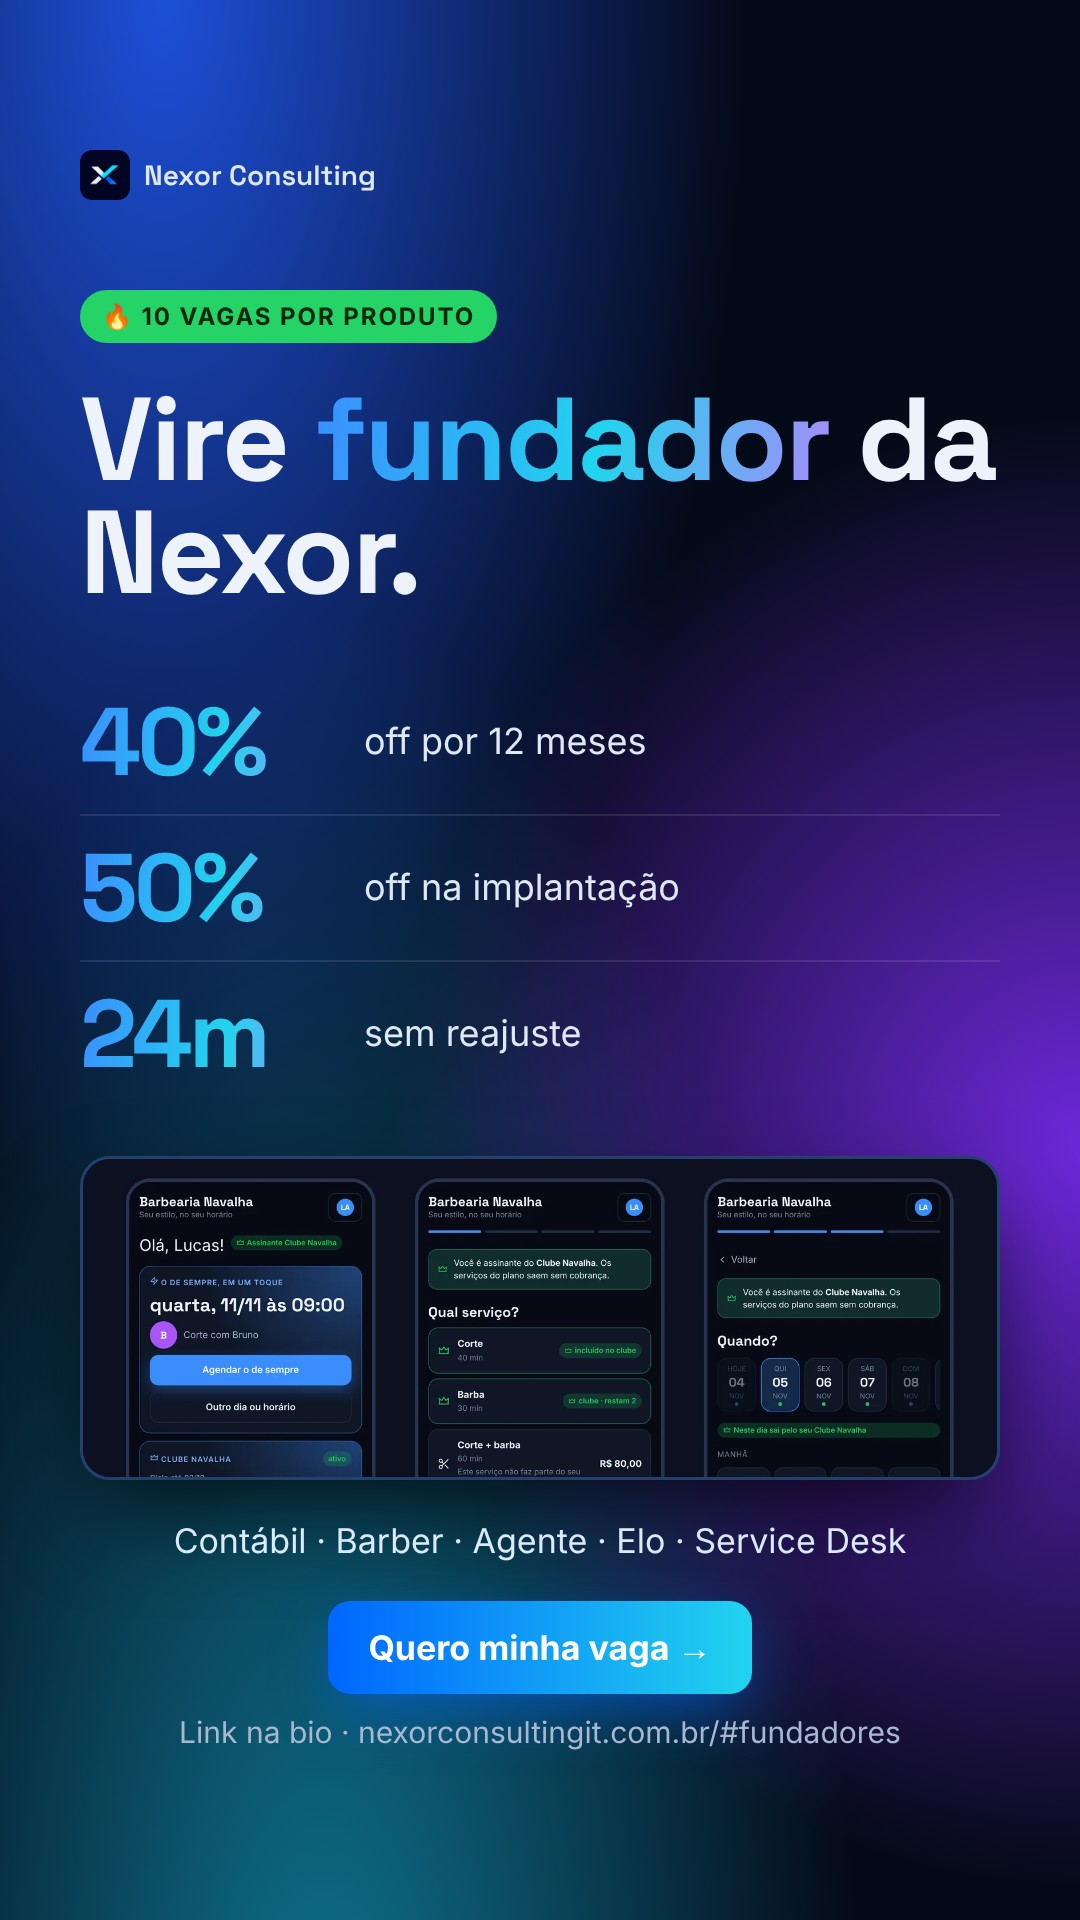
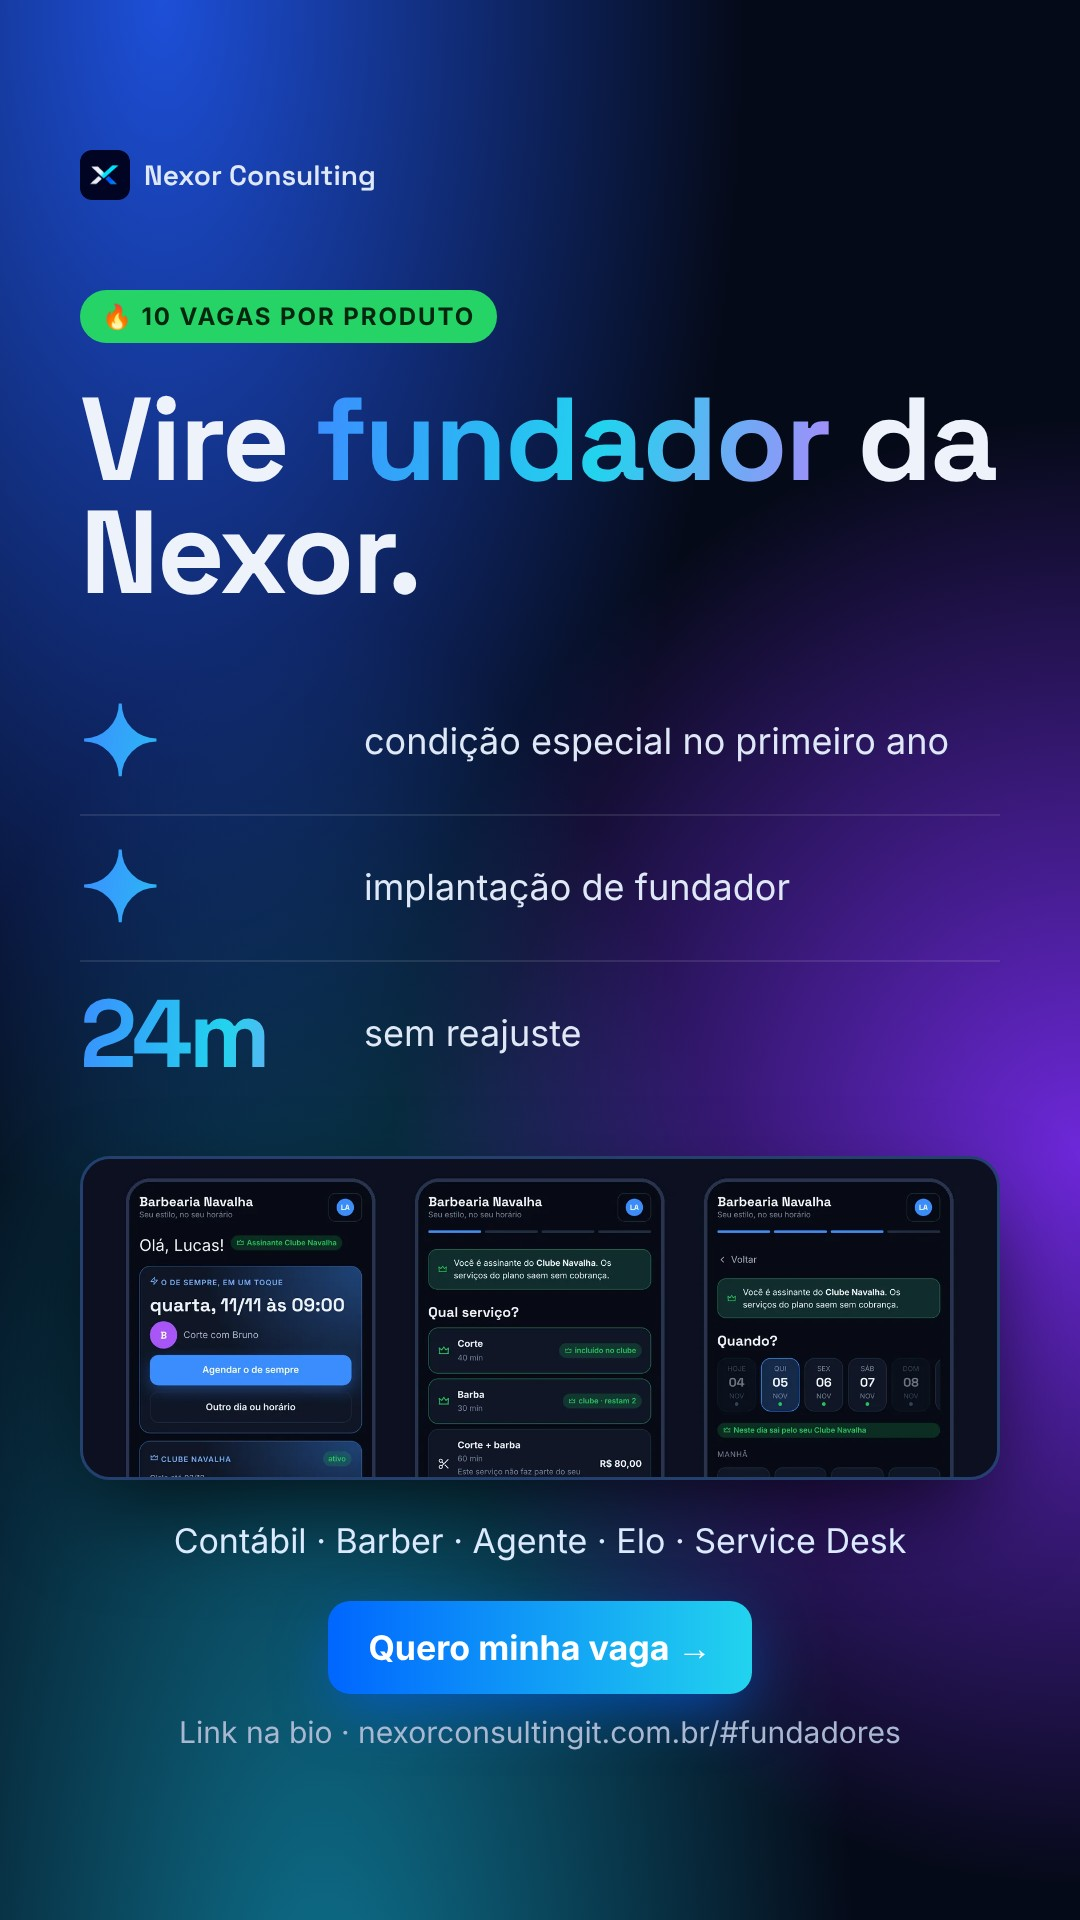
Marketing: tira os percentuais das artes de fundadores
Claude-Session: https://claude.ai/code/session_01HtYmcSBTzVETGZN32eqMPh

diff --git a/marketing/fonte/pecas.html b/marketing/fonte/pecas.html
@@ -167,8 +167,8 @@ h1, h2, h3, .t { font-family: "Space Grotesk", Inter, sans-serif; letter-spacing
   <p class="t" style="font-size:32px;font-weight:700;letter-spacing:.14em;color:#67e8f9;margin-top:60px">PROGRAMA DE FUNDADORES</p>
   <h1 style="font-size:96px;line-height:.98;margin-top:16px">Os primeiros <span class="grad">pagam menos.</span><br>Por muito tempo.</h1>
   <div style="margin-top:40px">
-    <div class="n-num"><b class="grad">40%</b><span>de desconto na mensalidade<br>por 12 meses</span></div>
-    <div class="n-num"><b class="grad">50%</b><span>de desconto na implantação</span></div>
+    <div class="n-num"><b class="grad">✦</b><span>condição especial na mensalidade<br>no primeiro ano</span></div>
+    <div class="n-num"><b class="grad">✦</b><span>implantação com condição<br>de fundador</span></div>
     <div class="n-num" style="border:0"><b class="grad">24m</b><span>de preço travado,<br>sem reajuste</span></div>
   </div>
   <div class="n-prod n-cinco" style="margin-top:26px"><span>Contábil</span><span>Barber</span><span>Agente</span><span>Elo</span><span>Service Desk</span></div>
@@ -181,8 +181,8 @@ h1, h2, h3, .t { font-family: "Space Grotesk", Inter, sans-serif; letter-spacing
   <span class="selo verde" style="align-self:flex-start;margin-top:90px">🔥 10 vagas por produto</span>
   <h1 style="font-size:118px;line-height:.96;margin-top:40px">Vire <span class="grad">fundador</span> da Nexor.</h1>
   <div style="margin-top:60px">
-    <div class="n-num"><b class="grad">40%</b><span>off por 12 meses</span></div>
-    <div class="n-num"><b class="grad">50%</b><span>off na implantação</span></div>
+    <div class="n-num"><b class="grad">✦</b><span>condição especial no primeiro ano</span></div>
+    <div class="n-num"><b class="grad">✦</b><span>implantação de fundador</span></div>
     <div class="n-num" style="border:0"><b class="grad">24m</b><span>sem reajuste</span></div>
   </div>
   <div class="tela" style="margin-top:50px;border-radius:30px;overflow:hidden"><img src="img/barber-app.webp" alt="App do Nexor Barber" style="width:100%;display:block"></div>
@@ -988,8 +988,8 @@ h1, h2, h3, .t { font-family: "Space Grotesk", Inter, sans-serif; letter-spacing
   <p class="t" style="font-size:28px;font-weight:700;letter-spacing:.14em;color:#67e8f9;margin-top:50px">PROGRAMA DE FUNDADORES</p>
   <h1 style="font-size:84px;line-height:.98;margin-top:12px">Os primeiros <span class="grad">pagam menos.</span></h1>
   <div style="display:grid;grid-template-columns:repeat(3,1fr);gap:20px;margin-top:44px">
-    <div class="cartao"><b class="grad" style="font:700 84px/1 'Space Grotesk'">40%</b><p style="font-size:28px;margin-top:10px;color:#dfe8f7">off na mensalidade por 12 meses</p></div>
-    <div class="cartao"><b class="grad" style="font:700 84px/1 'Space Grotesk'">50%</b><p style="font-size:28px;margin-top:10px;color:#dfe8f7">off na implantação</p></div>
+    <div class="cartao"><b class="grad" style="font:700 84px/1 'Space Grotesk'">✦</b><p style="font-size:28px;margin-top:10px;color:#dfe8f7">condição especial na mensalidade no 1º ano</p></div>
+    <div class="cartao"><b class="grad" style="font:700 84px/1 'Space Grotesk'">✦</b><p style="font-size:28px;margin-top:10px;color:#dfe8f7">implantação com condição de fundador</p></div>
     <div class="cartao"><b class="grad" style="font:700 84px/1 'Space Grotesk'">24m</b><p style="font-size:28px;margin-top:10px;color:#dfe8f7">de preço travado, sem reajuste</p></div>
   </div>
   <div class="n-prod n-cinco" style="margin-top:34px"><span>Contábil</span><span>Barber</span><span>Agente</span><span>Elo</span><span>Service Desk</span></div>
